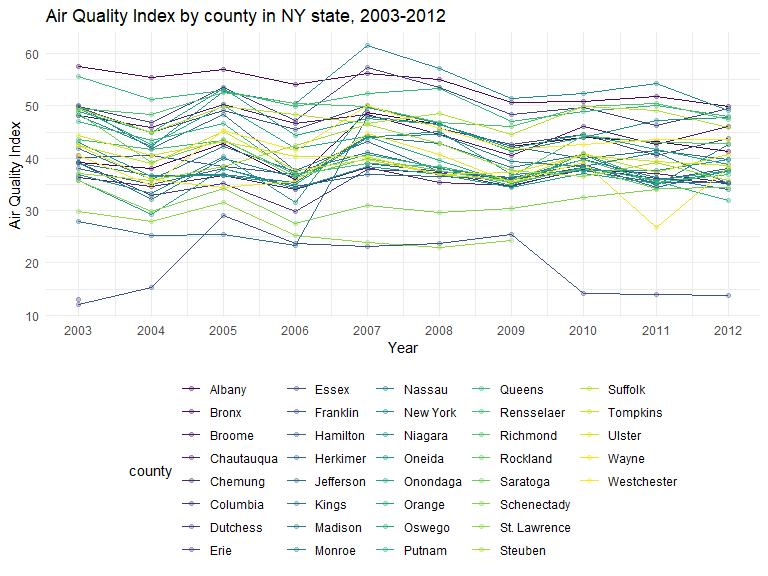
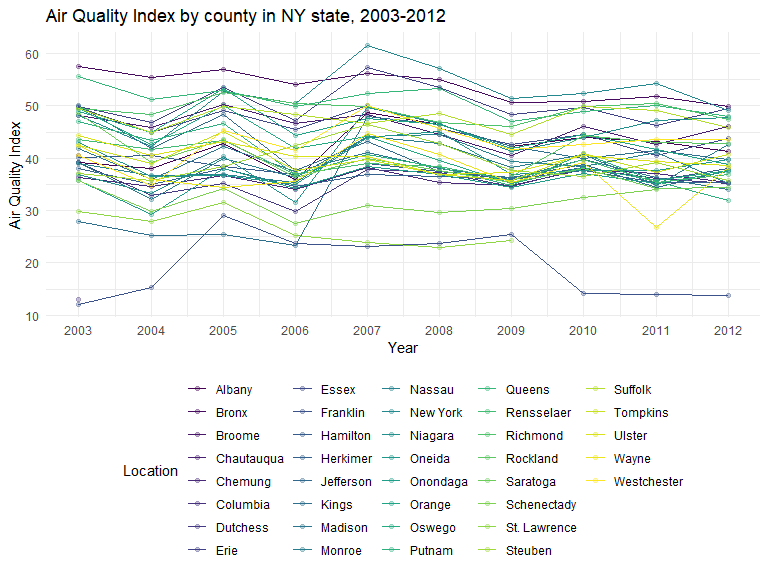
Exploratory analysis - Figure 4

Changed region(s): [[0.4062, 0.6562, 0.75, 0.9688], [0.1562, 0.6562, 0.375, 0.9688], [0.7812, 0.6562, 0.9062, 0.8438]]

diff --git a/Exploratory-Analysis.md b/Exploratory-Analysis.md
@@ -1,13 +1,6 @@
 Exploratory Analysis
 ================
 
-``` r
-library(tidyverse)
-library(modelr)
-library(mgcv)
-library(purrr)
-```
-
 ### Air Quality Index across year in NY state
 
 #### Load the data
@@ -35,15 +28,15 @@ air_daily_df =
 ``` r
 aqi_year_df = 
   air_daily_df %>% 
-  select(county_code, state, county, year, aqi) %>% 
-  group_by(county,year) %>% 
+  select(state_code, county_code, state, county, year, aqi) %>% 
+  group_by(state_code, county_code,county,year) %>% 
   summarize(
     aqi_mean = mean(aqi)
   )
 ```
 
-    ## `summarise()` has grouped output by 'county'. You can override using the
-    ## `.groups` argument.
+    ## `summarise()` has grouped output by 'state_code', 'county_code', 'county'. You
+    ## can override using the `.groups` argument.
 
 #### Figure 1: Aqi for different county from 2003-2012
 
@@ -59,7 +52,11 @@ aqi_state_graph =
     x = "Year",
     y = "Air Quality Index"
   )+
-  scale_x_continuous(breaks = 2003:2012 )
+  scale_x_continuous(breaks = 2003:2012 )+
+  scale_color_viridis(
+    name = "Location", 
+    discrete = TRUE
+  )
 
 aqi_state_graph
 ```
@@ -69,7 +66,7 @@ aqi_state_graph
 ##### Figure 2: Mean AQI for different county from 2003-2012
 
 ``` r
-aqi_county_df = 
+aqi_county_graph = 
   aqi_year_df %>% 
   group_by(county) %>% 
   summarize(
@@ -80,13 +77,88 @@ aqi_county_df =
   mutate(county = fct_reorder(county, aqi_all)) %>% 
   ggplot(aes(x = county, y = aqi_all)) +
   geom_point()+
-  geom_errorbar(mapping = aes(ymin = min, ymax = max))+
+  geom_errorbar(mapping = aes(ymin = min, ymax = max)) +
   labs( x = "Year",  y = "Air Quality Index", title = "Mean AQI for different county from 2003-2012") + 
   theme(plot.title = element_text(hjust = 0.5)) + 
   theme(axis.text.x = element_text(angle = 90, vjust = 0.5, hjust = 1))
+
+aqi_county_graph
 ```
 
-#### Figure 2: Map for Aqi in NY state
+<img src="Exploratory-Analysis_files/figure-gfm/unnamed-chunk-4-1.png" width="90%" />
+
+#### Figure 3: Map for Aqi in NY state
+
+``` r
+air_county_df = 
+  aqi_year_df %>% 
+  group_by(state_code, county_code,county) %>% 
+  summarize(
+    aqi_all = mean(aqi_mean),
+    max = max(aqi_mean),
+    min = min(aqi_mean)
+  ) %>% 
+  mutate(
+    fips = str_c(state_code,county_code)
+  )
+```
+
+    ## `summarise()` has grouped output by 'state_code', 'county_code'. You can
+    ## override using the `.groups` argument.
+
+``` r
+county_plot_map = 
+  plot_usmap(regions = "county", include = c("NY"), data = air_county_df, values = "aqi_all") +
+  scale_fill_continuous(
+    low = "white", high = "Red", name = "Air Quality Index", label = scales::comma, limits = c(0,60)
+  ) + 
+  theme(legend.position = "right")
+
+county_plot_map
+```
+
+<img src="Exploratory-Analysis_files/figure-gfm/unnamed-chunk-5-1.png" width="90%" />
+
+#### Figure 4: Unhealthy air quality days in counties among 10 years
+
+``` r
+air_quality_day_df = 
+  air_daily_df %>% 
+  group_by(state_code, county_code,county) %>% 
+  mutate(
+    aqi_status = case_when(
+      category %in% c("Good", "Moderate") ~ "Healthy",
+      category %in% c("Unhealthy for Sensitive Groups", "Unhealthy", "Very Unhealthy") ~ "Unhealthy"
+    )
+  ) 
+
+Unhealthy_air_graph = 
+  air_quality_day_df %>% 
+  filter(aqi_status == "Unhealthy") %>% 
+  group_by(county) %>% 
+  summarize(
+    unhealthy_days = n()
+  ) %>% 
+  mutate(
+    county = fct_reorder(county, unhealthy_days)
+    ) %>% 
+  ggplot(aes(y = county, x = unhealthy_days, fill = unhealthy_days)) +
+  geom_col() +
+  labs(
+    title = "Unhealthy air quality days in counties among 10 years",
+    x = "Unhealthy air quality days",
+    y = "County"
+  ) +
+  scale_fill_viridis(option = "turbo")
+
+Unhealthy_air_graph 
+```
+
+<img src="Exploratory-Analysis_files/figure-gfm/unnamed-chunk-6-1.png" width="90%" />
+
+### Type of Pollutants in each counties
+
+#### Ozone
 
 #### BRFSS
 
